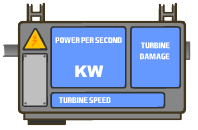
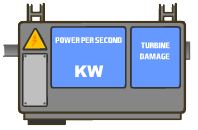
Update mechanic shadow and power out

Changed region(s): [[0.2424, 0.7077, 0.8485, 0.8615]]

diff --git a/src/main/java/lamprey/seprphase3/GUI/Images/MechanicImage.java b/src/main/java/lamprey/seprphase3/GUI/Images/MechanicImage.java
@@ -194,14 +194,14 @@ public class MechanicImage extends Image {
         }
         
         if (mechanicDirection == Direction.Right) {
-            shadowImage.setPosition(this.getX() - 30f, STATIC_Y - 15f);
+            shadowImage.setPosition(this.getX() + 8f, STATIC_Y - 1f);
             shadowImage.draw(batch, parentAlpha);
             
             this.setScale(scaleToUse);
             super.draw(batch, parentAlpha);
         }
         else if (mechanicDirection == Direction.Left) {
-            shadowImage.setPosition(this.getX() - 25f, STATIC_Y - 10f);
+            shadowImage.setPosition(this.getX() + 15f, STATIC_Y - 1f);
             shadowImage.draw(batch, parentAlpha);
             
             mechanicX = this.getX();
